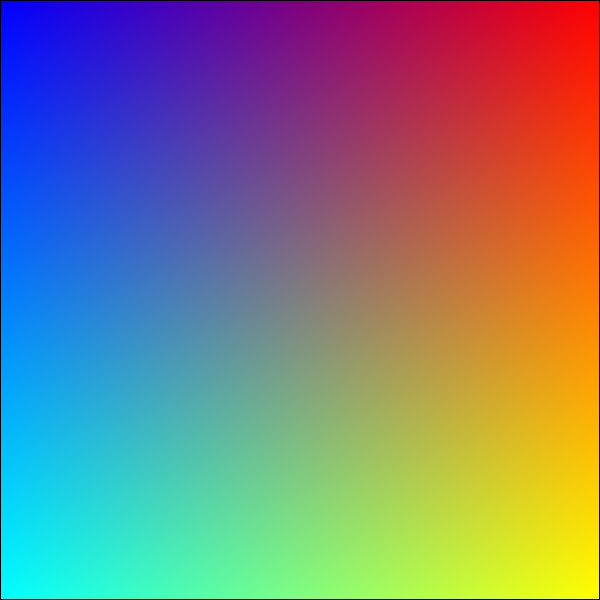
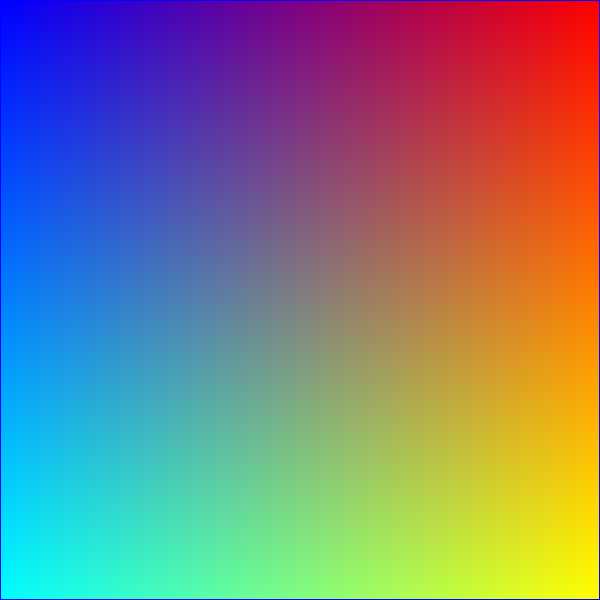
All done! :)
(Note: Assumes user will enter numbers between 0-255)

Changed region(s): [[0.0, 0.0, 1.0, 1.0], [0.0, 0.0, 0.03, 0.03]]

diff --git a/Outline.java b/Outline.java
@@ -3,6 +3,7 @@ import javax.imageio.ImageIO;
 import java.awt.image.BufferedImage;
 import java.io.IOException;
 import java.awt.Color;
+import java.util.Scanner;
 
 public class outline {
 
@@ -16,38 +17,43 @@ public class outline {
 		if( !file.exists() ) {
 			System.exit(0);
 		}	
-	
-		//Creating the border color
-		int a = 0;
-		int r = 0;
-		int g = 0;
-		int b = 0;
+		
+		//Takes user input, inputs an INT
+		Scanner user_input = new Scanner( System.in );
+		System.out.print("Please enter Alpha value (0-255): ");
+		int a = user_input.nextInt();
+		
+		System.out.print("Please enter Red value (0-255)  : ");
+		int r = user_input.nextInt();
+		
+		System.out.print("Please enter Green value (0-255): ");
+		int g = user_input.nextInt();
+		
+		System.out.print("Please enter Blue value (0-255) : ");
+		int b = user_input.nextInt();
+
+		//Sets the border color
 		Color border = new Color(r,g,b,a);
 	
 		//Height and Width of the Image
 		int w = image.getWidth();
 		int h = image.getHeight();
-		System.out.println("width, height: " + w + ", " + h);
 	
+		//loops through all the pixels
 		for (int i = 0; i < h; i++) {
 			for (int j = 0; j < w; j++) {
-				int pixel = image.getRGB(j, i);
-				int alpha = (pixel >> 24) & 0xff;
-				int red = (pixel >> 16) & 0xff;
-				int green = (pixel >> 8) & 0xff;
-				int blue = (pixel) & 0xff;
+
+				//finds the border pixels
 				if(i == 0 || i == h-1 || j == 0 || j == w-1)
 				{
-					//System.out.println("x,y: " + j + ", " + i);
-					//System.out.println("argb: " + alpha + ", " + red + ", " + green + ", " + blue);
+					//sets the border pixels to desired color
 					image.setRGB(j,i,border.getRGB());
 				}
 			}
 		}
 		
 		File output = new File("output.png");
-		ImageIO.write(image, "png", output);
-		
+		ImageIO.write(image, "png", output);	
 	}
 }
 
